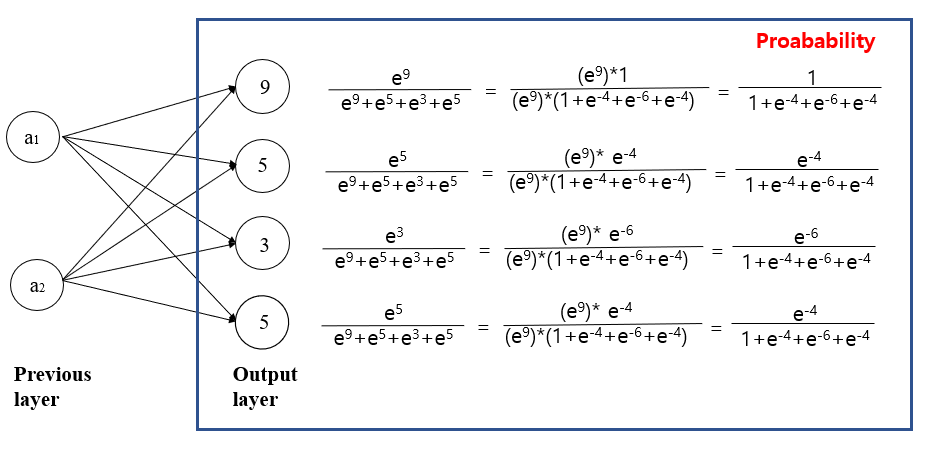
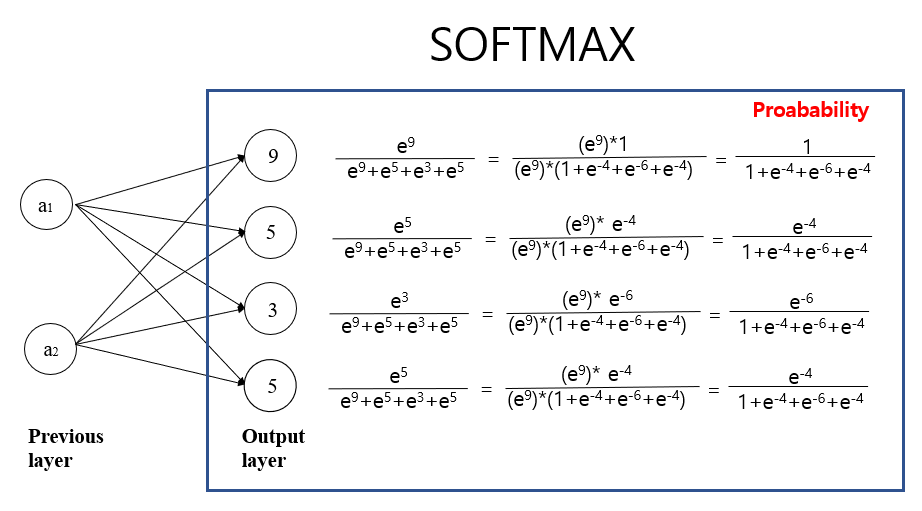
ann

diff --git a/ANN.html b/ANN.html
@@ -20,7 +20,7 @@
       float : bottom;
         padding-left :10%;
         padding-right:10%;
-        height: 200px;
+        width : 800px;
     }
     #title {
         padding-left :10%;
@@ -38,6 +38,8 @@
     #explanation {
         padding-left :10%;
         padding-right :10%;
+        width : 1000px;
+
     }
 </style>
 
@@ -48,7 +50,7 @@
 
 
 <div id =title ><h3>0. Problem description</h3><br></div>
-<div id =title >According to given picture which contains one written number among 0 to 9, It will recognize the number from the picture.
+<div id =explanation >According to given picture which contains one written number among 0 to 9, It will recognize the number from the picture.
 <br> <b>Ex)</b> The picture below is the size of 28*28, has 784 pixels. Each pixel contains information of location and the brightness.
 <br>By combining these two information, the picture is determined what number it is. Forwawrd and back propagation are used when the model is made.
 </div>
@@ -56,14 +58,14 @@
 
 
 <div id = title><h1>Forward propagation</h1></div>
-<div id =expic><img src = "ANN/forward.PNG" width = 500 px align = "left">Forward propagation is inferring the value using a model created based on input values and answer.<br>
+<div id =expic><img src = "ANN/forward.PNG" width = 500 px align = "left"><br><br><br>Forward propagation is inferring the value using a model created based on input values and answer.<br>
 Each node in the neral network is called perceptron.
 Input perceptrons affect perceptrons in the next layer, and this perceptrons in the next layer affects perceptrons in its next layer.<br></div>
 <br><br>
 <div id =expic><img src = "ANN/for_mo.PNG" width = 400 px align = "left"><br><br>Each perceptrons in the input layer are used to make perceptron in the next layer. The values of each perceptron are multiplied by weights and is summed up to make perceptrons in the next layer. <br>
 <br>The result of summation then becomes the input of activation function such as sigmoid, ReLu, and softmax(only at the last layer, in classification problems).<br>
 Creating the right model is largely related to finding right weights. Input values are given, therefore by changing weights, proper model can be made.</div>
-<div id = explanation><br><br><br><br>
+<div id = explanation><br><br><br><br><br>
 Evaluating errors is different based on the type of problems. Usually, Regression uses sigmoid function to evaluate erros, and Classification uses reLu and sigmoid function.(이거 좀 뇌피셜..)
 Since we are dealing with the classification problem, we will look how to back propagate ANN that uses ReLu and Softmax function.
 <br>
@@ -75,15 +77,64 @@ However, We cannot find proper weights at one go. The initial weights are random
 
 
 <div id = explanation>
-  In the classification problems, the last output is made by using cross-entropy and softmax function.
-  <br>
-  <img src = "ANN/soft_max.PNG" width = 400 >
+  In the classification problems, the last output is driven by using cross-entropy and softmax function.
+  <br><br>
+  <img src = "ANN/soft_max.PNG" width = 600 align =  left>
+<br><br>
+  Let's assume that we have 4 classes(A,B,C,D), and each outcome is 9, 5, 3, 5 respectively (The outcome is something like a1*w1 + a2*w2 + bias)<br><br>
+  We can simply put this as a probability,
+  (Roughly rounded)<br>
+  A : 9/(9+5+3+5) = 0.4<br>
+  B : 5/(9+5+3+5) = 0.23<br>
+  C : 3/(9+5+3+5) = 0.14<br>
+  D : 5(9+5+3+5) = 0.23<br><br>
 
-  <img src = "ANN/crossentropy.PNG" width = 400 >
-  <br>
+  However, Instead of this, we use Euler's number to present the probability for each class.<br>
+  (The reason for using Euler's number is closely related to the back propagation(makes easier to differentiate), and the cross entropy error function.)<br>
+<br><br>
+  Now, (e<sup>9</sup> + e<sup>5</sup> + e<sup>3</sup> + e<sup>5</sup>)  is the denominator for each class, and the numerator is e<sup>9</sup> , e<sup>5</sup> , e<sup>3</sup> , e<sup>5</sup> for each class.<br>
+  A : e<sup>9</sup>/(e<sup>9</sup> + e<sup>5</sup> + e<sup>3</sup> + e<sup>5</sup>) = 0.96<br>
+  B : e<sup>5</sup>/(e<sup>9</sup> + e<sup>5</sup> + e<sup>3</sup> + e<sup>5</sup>)= 0.017<br>
+  C : e<sup>3</sup>/(e<sup>9</sup> + e<sup>5</sup> + e<sup>3</sup> + e<sup>5</sup>) = 0.0023<br>
+  D : e<sup>5</sup>/(e<sup>9</sup> + e<sup>5</sup> + e<sup>3</sup> + e<sup>5</sup>) = 0.017<br><br>
+  y= e<sup>x</sup> is a monotone increasing function, so It does not change the magnitude of the relation.
+  (At the end of the day, our purpose is just to pick up the class with the highest probability)
+<br>
+  However, the problem lies when the number gets too big.
+  we need to modify this number.
+  A:9  B:5  C:3  D:5 .<br>
+  First, find the biggiest number which is 9(A) and then subtract 9 for all classes.
+  <br>A: 0  B:-4  C:-6  D:-4<br>
 
+<br>
+  A : e<sup>0</sup>/(e<sup>0</sup> + e<sup>-4</sup> + e<sup>-6</sup> + e<sup>-4</sup>) = 0.96<br>
+  B : e<sup>-4</sup>/(e<sup>0</sup> + e<sup>-4</sup> + e<sup>-6</sup> + e<sup>-4</sup>) = 0.017<br>
+  C : e<sup>-6</sup>/(e<sup>0</sup> + e<sup>-4</sup> + e<sup>-6</sup> + e<sup>-4</sup>)  = 0.0023<br>
+  D : e<sup>-4</sup>/(e<sup>0</sup> + e<sup>-4</sup> + e<sup>-6</sup> + e<sup>-4</sup>) = 0.017<br>
+  (The probability is still the same.)
+<br>
+  Conclusion
+  outcome -- softmax function --> probability <br>
+  We first need to know how much the error this model has. To measure this error, Crossentropy function is often used (in classification problems.)
+  <br> After using softmax function, we could convert each number into possibility of the each class.
+  Now, let's assume that, this picture belongs to class A. Our model was pretty close, as the final outcome was 0.96 for class A.
+  However, if the picture belongs to class B, then the model is significantly wrong because the possibility of belonging in class B is only 0.017.<br>
+  The error is calculated by multiplying two numbers, - ln(The possility of beloning in each class) * Correct answer, and summing up.
+   if the estimation is close enough , then it will get lower costs. if it is not close, then the loss will be high.</div>
+<div id = "expic"><img src = "ANN/crossentropy.PNG" width = 550 ><img src = "ANN/-lnx.PNG" width=200px ><br> If x is close to 0, then the cost will be close to infinity. if it is close to 1, then the cost will be 0.
+<br>
+   <br>
+   let's assume correct answer is (A,B,C,D)= (1,0,0,0)
+   Then,
+   cost for A = 1*(-ln(0.96+0.002)) = 1*(0.0406)= 0.0406 . so the cost is very low.
+   cost for B,C,D = 0*(-ln(...))= 0  (So, In cross entropy error, we only care about how close the correct answer is with estimation, don't care about how correct(wrong) is for BCD.))
 
+   If, the probability of A was not 0.96 but 0, then ?
+   Cost for A = 1*(-ln(0+0.002)) = 1*(6.2146)= 6.2146 . so the cost is very high compared to previous one.
+   also, this is reason why we should add small numbers like 0.002, because -ln0 is infinite.
+</div>
 
+<div id = "explanation">
   <a onclick="this.nextSibling.style.display=(this.nextSibling.style.display=='none')?'block':'none';" href="javascript:void(0)">
   (Click more to read) When the last output was from the sigmoid function
   </a><div style="DISPLAY: none">
@@ -125,7 +176,6 @@ However, We cannot find proper weights at one go. The initial weights are random
   <br><img src = "ANN/tot_err.PNG" width=600px>
   <img src = "ANN/e2.PNG" width = 600px><br>
 
-   <img src = "ANN/-lnx.PNG" width=200px>
    <br><img src = "ANN/e1.PNG" height=50px><br>
   <img src = "ANN/wu11.PNG"  width=600px><br>
   <img src = "ANN/e2.PNG" height=50px><br>

diff --git a/Checker.html b/Checker.html
@@ -47,18 +47,23 @@
 <div id =text>
   In this project, I made a modified checker AI. The rule of a modified checker is like this;<br>
 *RULES*
-<img src = "Checker/r1.PNG"><img src = "Checker/r2.PNG"><img src = "Checker/r3.PNG"><img src = "Checker/r4.PNG"><img src = "Checker/r5.PNG">
+<img src = "Checker/r1.PNG" width = 200px><img src = "Checker/r2.PNG" width = 200px><img src = "Checker/r3.PNG" width = 200px><img src = "Checker/r4.PNG" width = 200px><img src = "Checker/r5.PNG" width = 200px>
 
   This project focused on making AI which can play against human by using mini max tree algirithm.
 Score can be the indicator of winning and losing, making an appropriate score system affects overall performance.
 In this algorithm, Zerosum is used. Score is expressed in one score, if Black is winning then score gets postivie value, if not, score gets negative one. If it is equals, then score is 0.
 (my method)If black pawn moves forward, then add 3. If red, subtract 3 from the total score.King worth 30 points. All pawns have a inital value of 10.
-<img src = "Checker/scoring.PNG"><img src = "Checker/e1.PNG"><img src = "Checker/e2.PNG"><img src = "Checker/e3.PNG"><img src = "Checker/gametree.PNG">
+<img src = "Checker/scoring.PNG" width = 400px><img src = "Checker/e1.PNG"><img src = "Checker/e2.PNG"><img src = "Checker/e3.PNG"><img src = "Checker/gametree.PNG">
 There are some to consider when you choose something to move from the board.
-<img src = "Checker/ply1.PNG"><img src = "Checker/ply2.PNG">
+<img src = "Checker/ply1.PNG"><img src = "Checker/ply2.PNG" width = 400px>
 
 * mini-max tree
+<img src = "Checker/2ply.PNG"  width = 400px>
 
+<img src = "Checker/4ply1.PNG" width = 600px><img src = "Checker/4ply2.PNG" width = 900px>
+<img src = "Checker/4ply3.PNG" width = 900px>
+<img src = "Checker/4ply4.PNG" width = 900px><img src = "Checker/4ply5.PNG"  width = 600px>
+<img src = "Checker/4ply6.PNG" width = 600px>
 *alpha beta pruning
 
 
